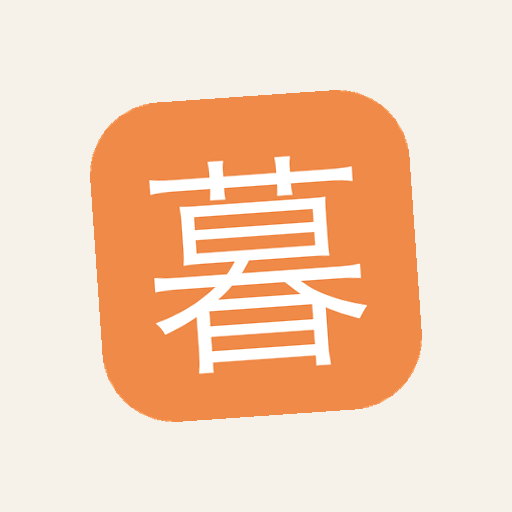
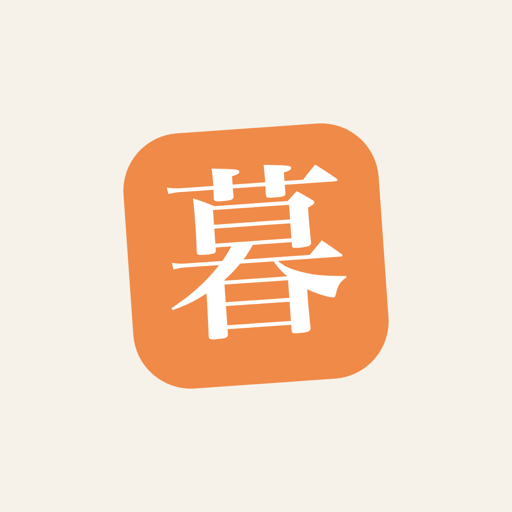
Icone 暮 nitide: rigenerate dall'SVG ad alta risoluzione, con il font Mincho

Changed region(s): [[0.1562, 0.1562, 0.8438, 0.8438]]

diff --git a/sw.js b/sw.js
@@ -3,7 +3,7 @@
 // Le chiamate a Supabase e agli altri domini non vengono mai toccate.
 // ============================================================
 // Cambiare il numero ad ogni modifica dei file: forza il download dei nuovi.
-const CACHE_NAME = "kurashi-v26";
+const CACHE_NAME = "kurashi-v27";
 const APP_SHELL = [
   "./", "./index.html", "./css/style.css", "./css/dashboard.css", "./css/views.css", "./manifest.json",
   "./icons/icon.svg", "./icons/icon-192.png", "./icons/icon-512.png", "./icons/apple-touch-icon.png",
